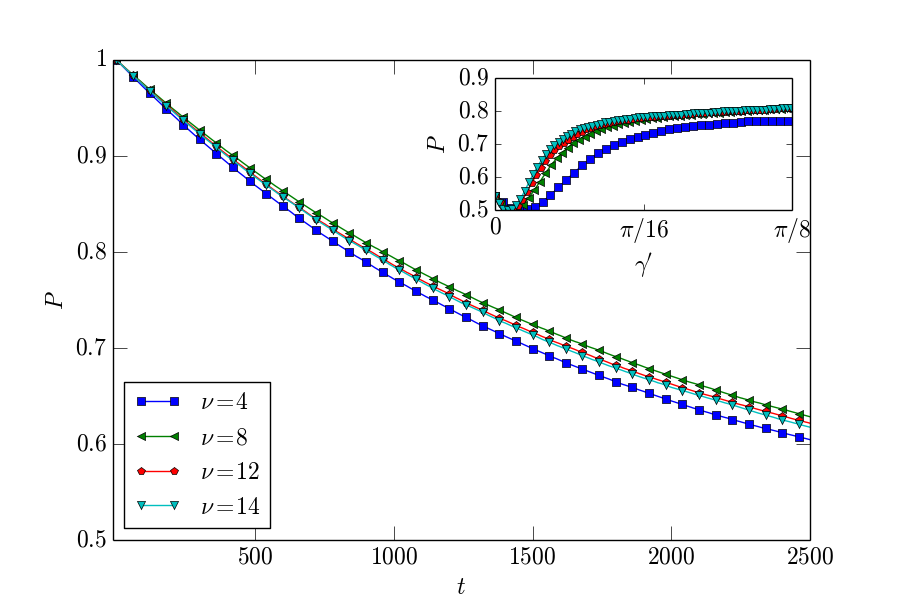
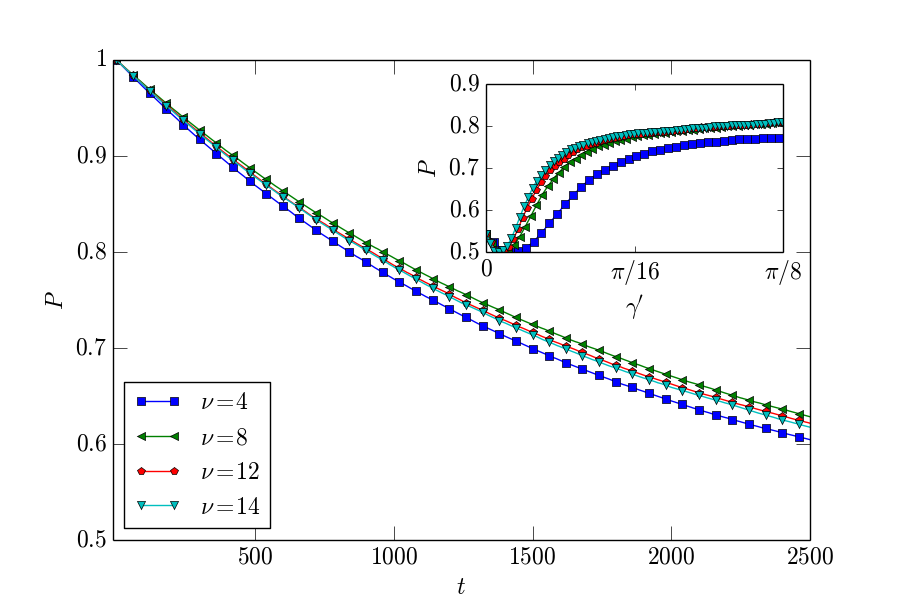
Update

Changed region(s): [[0.4667, 0.12, 0.9022, 0.48]]

diff --git a/g2-saveme.py b/g2-saveme.py
@@ -6,26 +6,26 @@ import os
 #OBTENER DATOS
 
 #dat_i=".dat"
-#comando = "./abc -o purity_gamma -q 17 --x 6 --model model3_open_op1 --Jc 0.01 --Jp 1. --Js 1. --DJs 0. --bx 1. --bz 1. --Dbs 0. --t 1000 --Cseed -1 --Eseed 3462 --PARAMseed 0  > grafica2-3-1-"
+#comando = "./abc -o purity_gamma -q 17 --x 6 --model model3_open_op1 --Jc 0.01 --Jp 1. --Js 1. --DJs 0. --bx 1. --bz 1. --Dbs 0. --t 1000 --Cseed -1 --Eseed 3462 --PARAMseed 0  > grafica2-3PATEADO-1-"
 #os.system(comando + dat_i)
 
-#comando = "./abc -o purity_gamma -q 17 --x 6 --model model3_open_op2 --Jc 0.01 --Jp 1. --Js 1. --DJs 0. --bx 1. --bz 1. --Dbs 0. --t 1000 --Cseed -1 --Eseed 3462 --PARAMseed 0  > grafica2-3-2-"
+#comando = "./abc -o purity_gamma -q 17 --x 6 --model model3_open_op2 --Jc 0.01 --Jp 1. --Js 1. --DJs 0. --bx 1. --bz 1. --Dbs 0. --t 1000 --Cseed -1 --Eseed 3462 --PARAMseed 0  > grafica2-3PATEADO-2-"
 #os.system(comando + dat_i)
 
-#comando = "./abc -o purity_gamma -q 17 --x 6 --model model3_open_op3 --Jc 0.01 --Jp 1. --Js 1. --DJs 0. --bx 1. --bz 1. --Dbs 0. --t 1000 --Cseed -1 --Eseed 3462 --PARAMseed 0  > grafica2-3-3-"
+#comando = "./abc -o purity_gamma -q 17 --x 6 --model model3_open_op3 --Jc 0.01 --Jp 1. --Js 1. --DJs 0. --bx 1. --bz 1. --Dbs 0. --t 1000 --Cseed -1 --Eseed 3462 --PARAMseed 0  > grafica2-3PATEADO-3-"
 #os.system(comando + dat_i)
 
-#comando = "./abc -o purity_gamma -q 17 --x 6 --model model3_open_op4 --Jc 0.01 --Jp 1. --Js 1. --DJs 0. --bx 1. --bz 1. --Dbs 0. --t 1000 --Cseed -1 --Eseed 3462 --PARAMseed 0  > grafica2-3-4-"
+#comando = "./abc -o purity_gamma -q 17 --x 6 --model model3_open_op4 --Jc 0.01 --Jp 1. --Js 1. --DJs 0. --bx 1. --bz 1. --Dbs 0. --t 1000 --Cseed -1 --Eseed 3462 --PARAMseed 0  > grafica2-3PATEADO-4-"
 #os.system(comando + dat_i)
 
-#comando = "./abc -o purity_gamma -q 17 --x 6 --model model3_open_op5 --Jc 0.01 --Jp 1. --Js 1. --DJs 0. --bx 1. --bz 1. --Dbs 0. --t 1000 --Cseed -1 --Eseed 3462 --PARAMseed 0  > grafica2-3-5-"
+#comando = "./abc -o purity_gamma -q 17 --x 6 --model model3_open_op5 --Jc 0.01 --Jp 1. --Js 1. --DJs 0. --bx 1. --bz 1. --Dbs 0. --t 1000 --Cseed -1 --Eseed 3462 --PARAMseed 0  > grafica2-3PATEADO-5-"
 #os.system(comando + dat_i)
 
-#comando = "./abc -o purity_gamma -q 17 --x 6 --model model3_open_op6 --Jc 0.01 --Jp 1. --Js 1. --DJs 0. --bx 1. --bz 1. --Dbs 0. --t 1000 --Cseed -1 --Eseed 3462 --PARAMseed 0  > grafica2-3-6-"
+#comando = "./abc -o purity_gamma -q 17 --x 6 --model model3_open_op6 --Jc 0.01 --Jp 1. --Js 1. --DJs 0. --bx 1. --bz 1. --Dbs 0. --t 1000 --Cseed -1 --Eseed 3462 --PARAMseed 0  > grafica2-3PATEADO-6-"
 #os.system(comando + dat_i)
   
   
-# DATOS
+#DATOS
 #grafica2-1- para semicadena rara variando conexiones internas
 #grafica2-3- como 2-2 pero para 2PI
   
@@ -69,7 +69,7 @@ fig.add_subplot(2,1,2)
 
 jps=linspace(0,2*pi,151)
 for i in range(1,7) :
-  a=loadtxt("grafica2-3-"+str(i)+"-.dat")
+  a=loadtxt("grafica2-3PATEADO-"+str(i)+"-.dat")
   plot(jps,a,lines[i-1],markevery=1,markersize=10)
 
   
@@ -82,7 +82,7 @@ xticks((0,pi/2,pi,(3/2.)*pi,2*pi),('$0$','$\pi/2$','$\pi$','$3/2\pi$','$2\pi$'),
 yticks((0.9,0.8,0.7,0.6,0.5),('$0.9$','$0.8$','$0.7$','$0.6$','$0.5$'),fontsize=17)
 ylabel("$P$",fontsize=17)
 
-axis([0,pi,0.5,.85])
+axis([0,pi,0.69,.91])
 #legend(loc='lower center',fontsize=25)
 
 tick_params(axis='both',          # changes apply to the x-axis
@@ -93,4 +93,4 @@ tick_params(axis='both',          # changes apply to the x-axis
     length=10)
 
 fig.subplots_adjust(hspace=0,wspace=0)
-savefig('art-g2-2.png')
+savefig('art-g2-2PADEATO.png')

diff --git a/g5.py b/g5.py
@@ -45,67 +45,6 @@ xlabel("\n $\gamma$",fontsize=19)
 xticks([])
 yticks([])
 
-fig.add_subplot(2,1,1)
-
-xticks([])
-yticks([])
-
-fig.add_subplot(2,2,1)
-
-
-dims=[[6,10],[6,12],[6,15]]
-for i in range(1,4) :
-  a=loadtxt("grafica5-4-"+str(i)+".dat")
-  plot(jps,a,lines[i-1],label="$N_{e^\prime}="+str(dims[i-1][1])+"$",markersize=12,markevery=2)
-
-
-
-xticks(arange(0,pi/2+.1,pi/4),('','',''),fontsize=19)
-
-
-yticks((0.9,0.8,0.7,0.6,0.52),('$0.9$','$0.8$','$0.7$','$0.6$','$0.5$'),fontsize=19)
-
-
-axis([0,pi/2,.5,.9])
-
-text(pi/4-.1,0.75,'$N_e=6$',fontsize=19)
-
-legend(loc='lower center',fontsize=19)
-
-tick_params(axis='both',          # changes apply to the x-axis
-    which='both',      # both major and minor ticks are affected
-    bottom='on',      # ticks along the bottom edge are off
-    top='on',         # ticks along the top edge are off
-    labelbottom='on',
-    length=10)
-
-fig.add_subplot(2,2,2)
-
-dims=[[6,10],[8,10],[10,10]]
-for i in range(1,4) :
-  a=loadtxt("grafica5-5-"+str(i)+".dat")
-  plot(jps,a,lines[i-1],label="$N_e="+str(dims[i-1][0])+"$",markersize=12,markevery=2)
-
-
-
-xticks(arange(0,pi/2+.1,pi/4),('','',''),fontsize=19)
-
-
-yticks((0.9,0.8,0.7,0.6,0.5),('','','','',''),fontsize=19)
-
-
-axis([0,pi/2,.5,.9])
-
-legend(loc='lower center',fontsize=19)
-
-text(pi/4-.1,0.75,"$N_e^{\prime}=10$",fontsize=19)
-
-tick_params(axis='both',          # changes apply to the x-axis
-    which='both',      # both major and minor ticks are affected
-    bottom='on',      # ticks along the bottom edge are off
-    top='on',         # ticks along the top edge are off
-    labelbottom='on',
-    length=10)
 
 fig.add_subplot(2,1,2)
 
@@ -133,6 +72,76 @@ tick_params(axis='both',          # changes apply to the x-axis
     top='on',         # ticks along the top edge are off
     labelbottom='on',
     length=10)
+
+
+
+
+
+
+
+
+fig.add_subplot(2,1,1)
+
+xticks([])
+yticks([])
+
+fig.add_subplot(2,2,1)
+
+
+dims=[[6,10],[6,12],[6,15]]
+for i in range(1,4) :
+  a=loadtxt("grafica5-4-"+str(i)+".dat")
+  plot(jps,a,lines[i-1],label="$N_{e^\prime}="+str(dims[i-1][1])+"$",markersize=12,markevery=2)
+
+
+
+xticks((.02,pi/4,pi/2-.02),('','$\pi/4$',''),fontsize=19)
+
+
+yticks((0.9,0.8,0.7,0.6,0.52),('$0.9$','$0.8$','$0.7$','$0.6$','$0.5$'),fontsize=19)
+
+
+axis([0,pi/2,.5,.9])
+
+text(pi/4-.1,0.75,'$N_e=6$',fontsize=19)
+
+legend(loc='lower center',fontsize=19)
+
+tick_params(axis='both',          # changes apply to the x-axis
+    which='both',      # both major and minor ticks are affected
+    bottom='on',      # ticks along the bottom edge are off
+    top='on',         # ticks along the top edge are off
+    labelbottom='on',
+    length=10)
+
+fig.add_subplot(2,2,2)
+
+dims=[[6,10],[8,10],[10,10]]
+for i in range(1,4) :
+  a=loadtxt("grafica5-5-"+str(i)+".dat")
+  plot(jps,a,lines[i-1],label="$N_e="+str(dims[i-1][0])+"$",markersize=12,markevery=2)
+
+
+
+xticks((.02,pi/4,pi/2-.02),('','$\pi/4$',''),fontsize=19)
+
+
+yticks((0.9,0.8,0.7,0.6,0.5),('','','','',''),fontsize=19)
+
+
+axis([0,pi/2,.5,.9])
+
+legend(loc='lower center',fontsize=19)
+
+text(pi/4-.1,0.75,"$N_e^{\prime}=10$",fontsize=19)
+
+tick_params(axis='both',          # changes apply to the x-axis
+    which='both',      # both major and minor ticks are affected
+    bottom='on',      # ticks along the bottom edge are off
+    top='on',         # ticks along the top edge are off
+    labelbottom='on',
+    length=10)
+
 
 fig.subplots_adjust(hspace=0,wspace=0)
 savefig('different_sizes_3panels.png')

diff --git a/g1-2.py b/g1-2.py
@@ -7,10 +7,10 @@ import os
 
 #GAMAS BUENAS=[0.05,0.1,0.3,0.5,0.8,1.,1.4]
 #i=1
-#os.system("cp conexiones_int3.txt conexiones.txt " )
-#for gamma in [0,0.001,0.01,.1,0.5,1.] :
+#os.system("cp conexionesABC7.txt conexiones.txt " )
+#for gamma in [0.05,0.1,0.3,0.5,0.8,1.] :
   #dat_i=str(i)+".dat"
-  #comando = "./abc -o purity -q 17 --x 6 --model modelConexRandABC --Jc 0.5 --Jp "+str(gamma)+" --Js 1. --DJs 0. --bx 1. --bz 1. --Dbs -2 --t 2500 --Cseed -1 --Eseed 3462 --PARAMseed 9678  > grafica1-12-"
+  #comando = "./abc -o purity -q 17 --x 6 --model modelConexRandABC --Jc 0.01 --Jp "+str(gamma)+" --Js 1. --DJs 0. --bx 1. --bz 1. --Dbs 0 --t 2500 --Cseed -1 --Eseed 3462 --PARAMseed 9678  > grafica1-3-Cpatead2"
   #os.system(comando + dat_i)
   #print i
   #i+=1
@@ -56,7 +56,7 @@ labels=['$\gamma=5\lambda$','$\gamma=10\lambda$','$\gamma=30\lambda$','$\gamma=5
 
 #labels=['$N_e=6$','$N_e=9$','$N_e=12$','$N_e=15$','$\gamma=0.5$','$\gamma=1.$','$\gamma=140$']
 for i in range(1,7) :
-  a=loadtxt("grafica1-3-"+str(i)+".dat")
+  a=loadtxt("grafica1-3-Cpatead2"+str(i)+".dat")
   plot(a,lines[i],markevery=60,label=labels[i-1],markersize=10)
 
 
@@ -84,4 +84,4 @@ ax = axes([.28, .65, .43, .22])
 #ax = axes([.55, .1, .33, .22])
 nod.nodosABC_lamb_gamma_labels(conx,'-')
 
-savefig('art-g1-3.png')
+savefig('C-pateado2.png')

diff --git a/gVarmag.py b/gVarmag.py
@@ -1,0 +1,34 @@
+from pylab import *
+
+#./abc -o purity_gamma -q 17 --x 6 --model model3_open_VarMagnetic --Jc 0.01 --Jp 1. --Js 1. --DJs 0. --bx 1. --bz 1. --Dbs 0. --t 1000 --Cseed -1 --Eseed 3462 --PARAMseed 0  > VarMagnetic.dat
+
+a=loadtxt("VarMagnetic.dat")
+b=loadtxt("VarMagnetic2.dat")
+c=loadtxt("VarMagnetic3.dat")
+d=loadtxt("VarMagnetic4.dat")
+i=sqrt(2)*linspace(0,2*pi,300)
+
+
+
+plot(i,a,label='$\gamma=80\lambda$',linewidth=2)
+plot(i,b,label='$\gamma=100\lambda$',linewidth=2)
+plot(i,c,label='$\gamma=120\lambda$',linewidth=2)
+plot(i,d,label='$\gamma=50\lambda$',linewidth=2)
+xlabel("$|b|$",fontsize=17)
+xticks((0,pi/2,pi,(3/2.)*pi,2*pi),('$0$','$\pi/2$','$\pi$','$3/2\pi$','$2\pi$','$\pi/\sqrt{2}$'),fontsize=17)
+yticks((0.9,.91,.92,.88,.89),('$0.9$','$0.91$','$0.92$','$0.88$','$0.89$'),fontsize=17)
+ylabel("$P$",fontsize=17)
+
+legend(loc='upper right',fontsize=17)
+
+axis([0,sqrt(2)*2*pi+.1,.85,.93])
+
+tick_params(axis='both',          # changes apply to the x-axis
+    which='both',      # both major and minor ticks are affected
+    bottom='on',      # ticks along the bottom edge are off
+    top='on',         # ticks along the top edge are off
+    labelbottom='on',
+    length=10)
+
+
+show()

diff --git a/gPlateau.py b/gPlateau.py
@@ -1,0 +1,35 @@
+from pylab import *
+
+#./abc -o purity_gamma -q 17 --x 6 --model model3_open_VarMagnetic --Jc 0.01 --Jp 1. --Js 1. --DJs 0. --bx 1. --bz 1. --Dbs 0. --t 1000 --Cseed -1 --Eseed 3462 --PARAMseed 0  > VarMagnetic.dat
+
+a=loadtxt("plateau1.dat")
+b=loadtxt("plateau2.dat")
+
+i=linspace(0,pi,151)
+
+lines=['s-','<-','p-','v-','D-','H-','D-','h-','>-','H-','d-','x-','s-','+-']
+
+
+plot(i,a,lines[0],label='$\gamma=80\lambda$',markersize=10)
+plot(i,b,lines[1],label='$\gamma=100\lambda$',markersize=10)
+
+
+
+#xlabel("$|b|$",fontsize=17)
+#xticks((0,pi/2,pi,(3/2.)*pi,2*pi),('$0$','$\pi/2$','$\pi$','$3/2\pi$','$2\pi$','$\pi/\sqrt{2}$'),fontsize=17)
+#yticks((0.9,.91,.92,.88,.89),('$0.9$','$0.91$','$0.92$','$0.88$','$0.89$'),fontsize=17)
+#ylabel("$P$",fontsize=17)
+
+##legend(loc='upper right',fontsize=17)
+
+##axis([0,2*pi+.1,.88,.91])
+
+##tick_params(axis='both',          # changes apply to the x-axis
+    ##which='both',      # both major and minor ticks are affected
+    ##bottom='on',      # ticks along the bottom edge are off
+    ##top='on',         # ticks along the top edge are off
+    ##labelbottom='on',
+    ##length=10)
+
+
+show()

diff --git a/g4-2_ultimas.py b/g4-2_ultimas.py
@@ -61,7 +61,7 @@ tick_params(axis='both',          # changes apply to the x-axis
 
 
 #############INSET
-ax = axes([.55, .65, .33, .22])
+ax = axes([.54, .58, .33, .28])
 jps=linspace(0,pi/2,76)
 cont=1
 for i in [4,8,12,14] :
